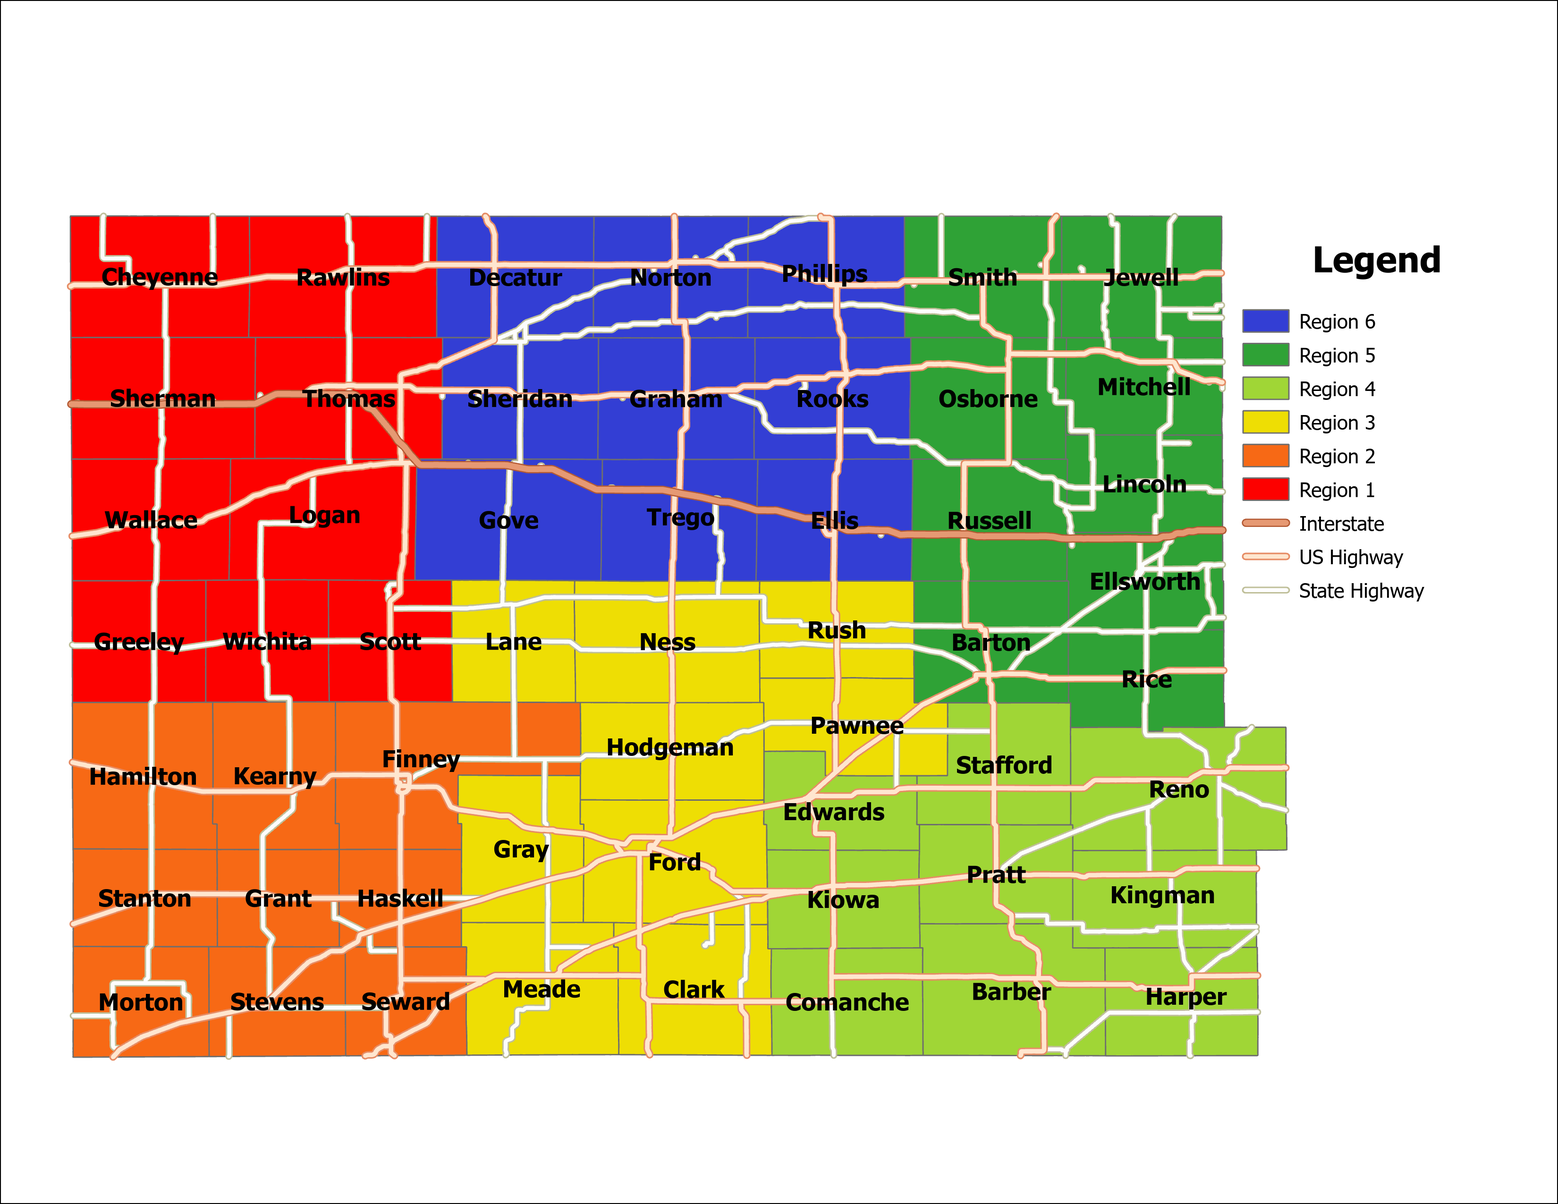
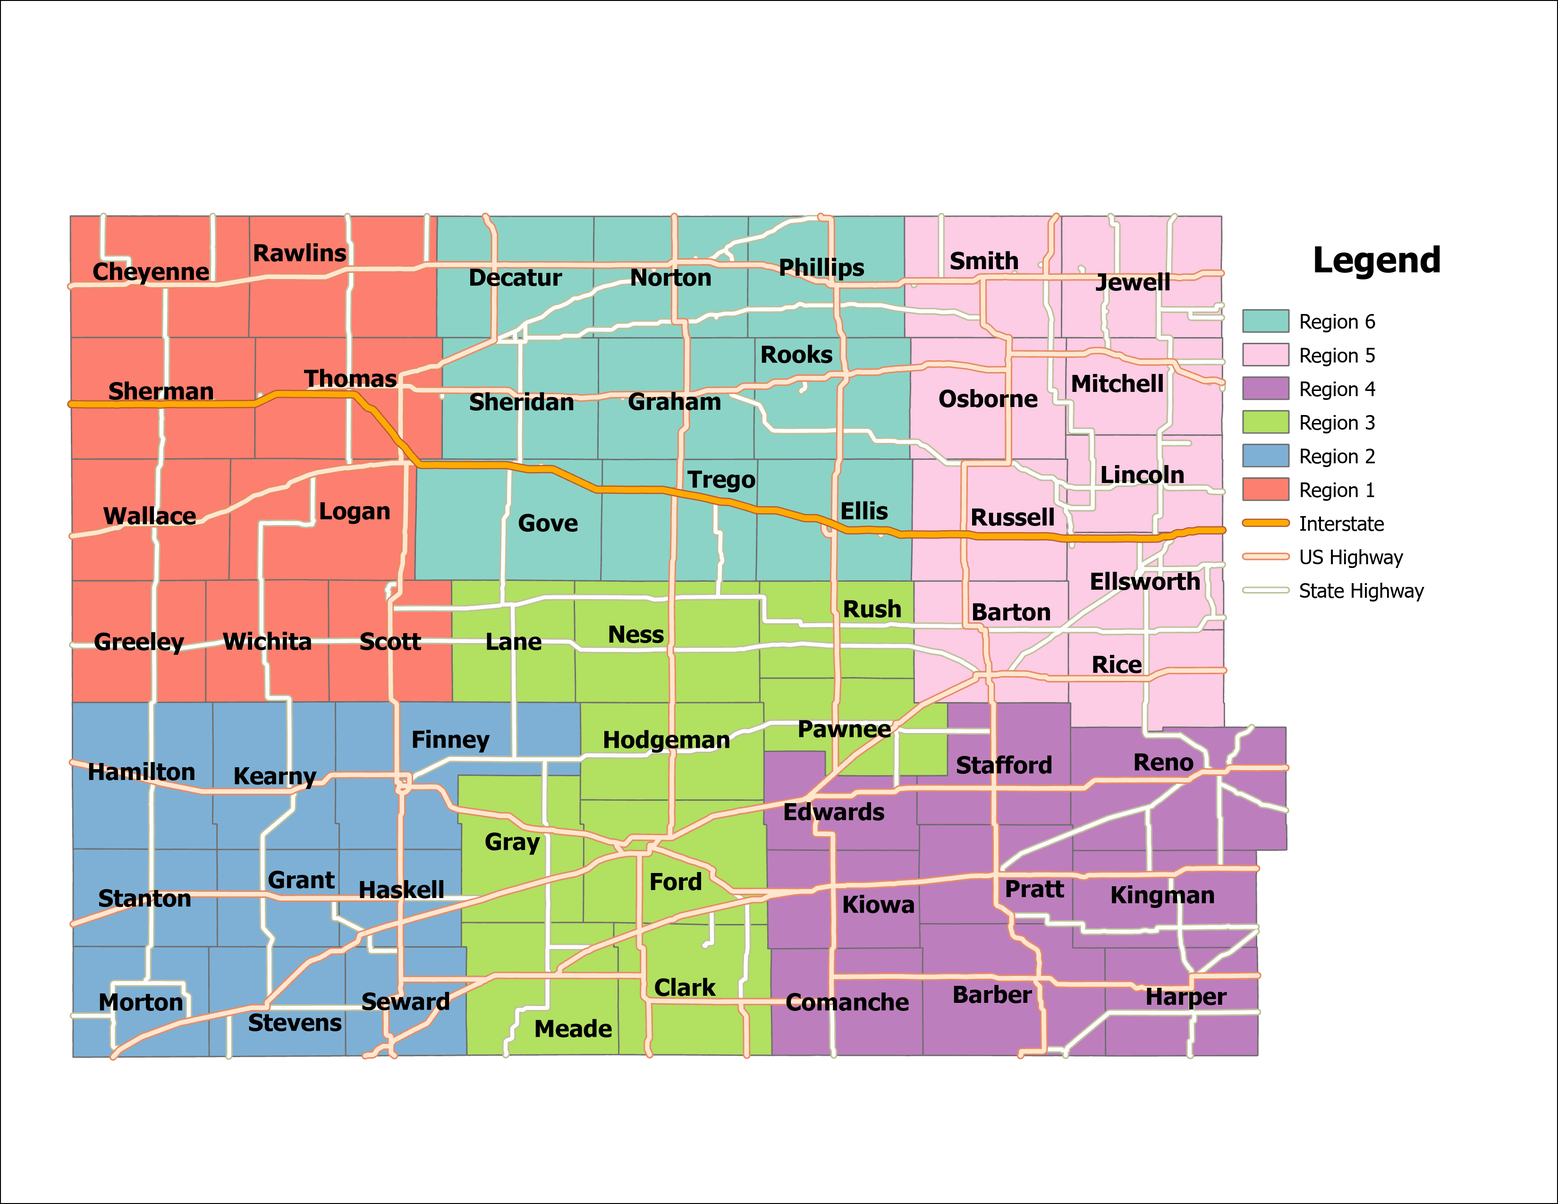
Add files via upload

diff --git a/ksdepopulation.html b/ksdepopulation.html
@@ -62,11 +62,23 @@
 	<h3 style="border-bottom:1px solid gray;">Region 6:</h3>
 	<center><a href="region6.png" target="_blank"><img src="region6.png" class="responsive"></a></center>
 	<h3 style="border-bottom:1px solid gray;">Analysis:</h3>
-	<p>&emsp;The data from this project reveals that there are three main inflection points of population in the 20th century. The first was in 1930, which coincides with the Dust Bowl, a disaster that still scars Kansas to this day. Hundreds of people fled Kansas for greener pastures out further west, as people were convinced the state was going to become an uninhabitable wasteland, and that its resources had all been used up. Many counties had a drop in population from 1930 to 1940, especially the ones further west. Multiple counties in Regions 1, 3, and 6 experienced a consistent decline in population following the 1930 Census. This is most visible in Cheyenne and Rawlins, but is also visible in Ness, Hodgeman, Rush, Decatur, Graham, and Phillips Counties. The second major inflection point is 1950, coinciding with the Baby Boom. Advances in technology following World War II allowed for even more efficient and mechanized farming. Some farms hit it big, and became even stronger and richer than ever. But these were mostly factory farms. Ordinary family farms that gave life and jobs to numerous communities in the study region failed, dealing a devastating economic blow to these areas. If you go out to western Kansas, you'll find lots of abandoned farm houses that were sold in the 1950s, and nobody ever bought them, because they would have to be used for farming, and the local farms couldn't compete with the prices of the factory farms and big farms. Cheyenne and Rawlins Counties began declining following the Dust Bowl, and family farms getting put out of business only hastened their decline. Pawnee, Russell, and Trego Counties weathered the Dust Bowl, but began their long decline in population following the mechanization of farming after World War II. The third inflection point is 1970 with the completion of Interstate 70. Out of the 54 counties studied in this project, I-70 only passes through eight of them. After the Dust Bowl and family farms getting put out of business, communities had the chance to rebrand themselves as tourist destinations. But when I-70 was completed, people would often drive right past these towns at 70 to 80 mph, and never even notice they were there. In fact, I-70 completely bypasses Regions 2, 3, and 4 in this study. Many counties in Regions 5 and 6 are also completely bypassed. Rooks County is one county that was bypassed by I-70, and has been consistently declining in population since 1970. The counties where I-70 does pass through have remained somewhat steady in population. Examples include Thomas and Sherman Counties, which contain important economic hubs like Colby, Oakley, and Goodland.</p>
-	<p>&emsp;Based on everything I've said so far, you'd think Region 2 would be becoming completely deserted. Well, this isn't quite the case. Since 1940, Haskell, Seward, Stevens, and Grant Counties have actually showed growth in population. Even though these counties were some of the hardest hit by the Dust Bowl, that has not deterred residents of this area from giving up hope, and attracts new residents as we speak. This is because southwest Kansas is home to oil and gas fields, which provide jobs and money for these areas. Communities like Hugoton, Garden City, and Liberal have benefitted from the petroleum industry. Another example of growth in this study is Reno County, which is home to Hutchinson. Hutchinson is the largest community in this study area, with a population of about 40,000, and serves as a satellite city of Wichita, the largest city in the entire state. Hutchinson also serves as a major manufacturing hub, railway hub, and agricultural hub for central Kansas. It is also home to salt mines, the Kansas State Fair, and the Cosmosphere, meaning that Hutchinson is brimming with economic opportunity and tourism compared to most communities studied here. Ford County also has demonstrated growth, even though it is nowhere near I-70. This is because of Dodge City, an important hub to southwestern Kansas, and a world-famous tourism destination, thanks to its history from the days of the Wild West. Ellis County has also demonstrated growth, thanks to Fort Hays State University being located in the city of Hays. This town serves as one of the most important cities in Western Kansas, and provides economic opportunity. College students also have to have somewhere to live, and bedroom communities of Hays like Russell and Ellis benefit from the demand of real estate. Even so, most communities in this half of the state have been in a constant state of decline for decades. Numerous ghost towns have propped up in this part of the country, and many more are expected to within 50 years. Without job opportunities due to the harsh climate and closing of family farms, the children who live in this part of the state move to more populated areas when they grow up, leaving their old towns with a graying population. Without children to enroll in school, the school closes, and families have no reason to live there anymore, as they might have to drive 30 miles just to get their children to school. Then the post office closes, which hampers people's ability to get mail and important products through the Postal Service. By this point, these communities have fallen into an inescapable death spiral, and are destined to become completely abandoned within 50 years.</p>
+	<p>&emsp;The data from these charts reveal that there are three main inflection points of population in the 20th century. The first was in 1930, which coincides with the Dust Bowl, a disaster that still scars Kansas to this day. Hundreds of people fled Kansas for greener pastures out further west, as people were convinced the state was going to become an uninhabitable wasteland, and that its resources had all been used up. Many counties had a drop in population from 1930 to 1940, especially the ones further west. Multiple counties in Regions 1, 3, and 6 experienced a consistent decline in population following the 1930 Census. This is most visible in Cheyenne and Rawlins, but is also visible in Ness, Hodgeman, Rush, Decatur, Graham, and Phillips Counties. The second major inflection point is 1950, coinciding with the Baby Boom. Advances in technology following World War II allowed for even more efficient and mechanized farming. Some farms hit it big, and became even stronger and richer than ever. But these were mostly factory farms. Ordinary family farms that gave life and jobs to numerous communities in the study region failed, dealing a devastating economic blow to these areas. If you go out to western Kansas, you'll find lots of abandoned farm houses that were sold in the 1950s, and nobody ever bought them, because they would have to be used for farming, and the local farms couldn't compete with the prices of the factory farms and big farms. Cheyenne and Rawlins Counties began declining following the Dust Bowl, and family farms getting put out of business only hastened their decline. Pawnee, Russell, and Trego Counties weathered the Dust Bowl, but began their long decline in population following the mechanization of farming after World War II. The third inflection point is 1970 with the completion of Interstate 70. Out of the 54 counties studied in this project, I-70 only passes through eight of them. After the Dust Bowl and family farms getting put out of business, communities had the chance to rebrand themselves as tourist destinations. But when I-70 was completed, people would often drive right past these towns at 70 to 80 mph, and never even notice they were there. In fact, I-70 completely bypasses Regions 2, 3, and 4 in this study. Many counties in Regions 5 and 6 are also completely bypassed. Rooks County is one county that was bypassed by I-70, and has been consistently declining in population since 1970. The counties where I-70 does pass through have remained somewhat steady in population. Examples include Thomas and Sherman Counties, which contain important economic hubs like Colby, Oakley, and Goodland. But these charts do not tell the complete story. I also created a choropleth of which census year had the highest population for each county in ArcGIS. Here it is below: </p>
+		<center><a href="yrmax.png" target="_blank"><img src="yrmax.png" class="responsive" id = "yrmax"></a></center>
+	<p>&emsp;Based on this choropleth, a fourth major inflection point is revealed: 1910. This coincides with Ford revolutionizing the automobile industry with the Model T, and making cars accessible to the masses. The Model T was first released in 1908, and was in production until 1927. Suddenly, the train was completely supplanted as the main method of transportation for people. Railroad traffic dropped considerably after this, as trains were reduced to their main purpose being freight only. At the same time, the construction of railroads was continuing well into the 1910s, but now they were for freight instead of people. Small towns and villages on the plains would see their death warrant signed in being bypassed by the railroad. There are many communities all over the study region that sprung up during the days of the Old West that went under following 1910. Not only were these communities bypassed by the railroads being constructed, their importance was diminished after traffic from the Santa Fe, Oregon, and California trails began to die down. Today, nature has completely reclaimed those areas, and nothing is left of those towns but some foundations and buried objects. It's also worth noting that based on this choropleth, Mitchell County has been in decline since the beginning of the timeframe we're studying. It's also worth noting that Ford, Seward, Stevens, and Finney Counties have overall grown from 1890 to 2010.</p>
+	<p>&emsp; You might be wondering, how is this possible? You'd think that because Interstate 70 goes nowhere near these counties and that these were the hardest hit parts of Kansas from the Dust Bowl that nobody would live here anymore. Well, this isn't quite the case. These factors have not deterred residents of this area from giving up hope, and attracts new residents as we speak. Almost all of the counties in Region 2 have seen a peak in population in either 2000 or 2010, and have overall grown in 100 years. This is because southwest Kansas is home to oil and gas fields, which provide jobs and money for these areas. Communities like Hugoton, Garden City, and Liberal have benefitted from the petroleum industry. Here are some choropleths I created in ArcGIS about the production of oil and gas: </p>
+	<center><a href="oilproduction.png" target="_blank"><img src="oilproduction.png" class="responsive"></a></center>
+	<center><a href="gasproduction.png" target="_blank"><img src="gasproduction.png" class="responsive"></a></center>
+	<p>&emsp;Based on these charts, Haskell and Finney Counties have been the most active overall in the production of fossil fuels. Region 2 of our study area leads the way in fossil fuel production, which results in jobs and reasons for people who live in these communities to stay, even though the factory farms have put the family farms out of business decades ago, and the Interstate goes nowhere near these counties. Mitchell, Smith, Lincoln, and Jewell Counties played an almost nonexistent contribution to this industry, which probably explains why their peak in population was 100+ years ago. But there's something else that is important to note. <a href="#yrmax">Look at the choropleth I made earlier about the year of maximum population.</a> Even though Ness, Rooks, and Russell Counties are leaders in the production of oil, they have been in decline for decades. This can be explained by another map I created in ArcGIS about railroads. <a href="https://hub.kansasgis.org/maps/KSDOT::railroads/about">Click here to download the shapefiles that I used to create this map.</a> As I mentioned before, when factory farms put family farms out of business, railroad depots all over Kansas closed in the 1950s and 1960s since railroad traffic became even more concentrated than it already was due to cars replacing trains for transportation of people. This resulted in entire railroad lines closing down, which severed numerous communities of an economic lifeline. If I-70 never passed through them, the economic fate of these communities were even further sealed. Here's the map of major railroads in Kansas that are either still active or abandoned: </p>
+	<center><a href="railroads.png" target="_blank"><img src="railroads.png" class="responsive"></a></center>
+	<p>&emsp;Based on this map, railroads are also the reason that Region 2 has seen overall stability and even growth in population. Communities like Garden City serve as important railroad hubs in this part of Kansas to have petroleum, crops, and other goods transported through this area. Having railyards here creates jobs and gives people a reason to stay or even move to this part of the country. The Cimarron Valley Railroad runs through Region 2, headquartered in Satanta. Regions 4, 5, and 6 are not as fortunate with railroads, with many major lines in these counties being closed. No active major rail lines pass through Rooks, Graham, or Comanche Counties, and for many counties, only one major rail line passes through them. That's not to say that no railroads pass through these counties, but they are likely to be smaller, more localized railroads with less traffic going through them. In some counties, only a small portion is covered with a major rail line, such as Clark and Hodgeman Counties. All in all, rail traffic has diminished greatly in Regions 4, 5, and 6, and the rail traffic that does pass through these areas have also become even more concentrated. This is the result of the factory farms putting the family farms out of business and numerous depots closing after World War 2. Even though some counties in Region 5 and 6 are active in the production of petroleum, there is either only one major railroad that provides transport for the product, or smaller, localized railroads for transportation, which negates any economic growth that could have occurred in these counties due to the consolidation of farms. 
+	<p>&emsp;Two counties, though, have the opposite kind of relationship between petroleum and railroads: Ford and Reno Counties. Neither counties are top producers of petroleum, but railroad traffic is much heavier in these two counties. How are these counties not been declining in population for decades? One answer is tourism. Ford County is home to Dodge City, a mecca for fans of the Wild West. Many legendary figures in the Wild West either spent time, lived in, or frequented Dodge City such as Wyatt Earp, Doc Holliday, and Bat Masterson. Gunsmoke, the long running and popular television series about the Wild West also took place in Dodge City, a demonstration of the era's enduring history in the town. Anybody who is an avid fan of the Wild West views Dodge City as a holy city, which creates a thriving tourism industry in this city. People will come here to visit, even though the Interstate goes nowhere near it. Reno County is another example of a county in our study region that has seen overall growth since 1890, even though it has been tapering off since 1980. Its county seat and largest city is Hutchinson, which has a tourism industry of its own, though it has a bit more variety than what Dodge City has to offer. Hutchinson is also the largest city in this study region with a population of close to 40,000 as of 2020. Hutchinson is home to the Cosmosphere, a museum dedicated to the Space Race, and features the largest collection of Soviet-era spaceflight artifacts outside of Russia. The town is also home to one of the largest deposits of salt in the world, and therefore, a vast salt mine. The mines are not only used to mine salt for agricultural and business purposes, but also to preserve artifacts in the low moisture environment. Props, posters, costumes, and film negatives from movies dating back to the 1930s are stored here. The original film negatives of Gone With the Wind, Star Wars, and Ben Hur are stored here. The artifacts are in a museum that's open to the public and movie buffs alike. Hutchinson is also home to the Kansas State Fair, and the National Junior College Athletic Association (NJCAA) basketball tournament, providing even more tourism revenue to the city. The town is also an important rail hub thanks to the salt mines, one of the largest grain elevators in the world being here (clocking in at nearly half a mile long!), and even a strong manufacturing industry. Hutchinson is home to the headquarters of Collins Industries, a company that manufactures school buses, as well as manufacturing plants for StraightLine HDD, Kuhn-Krause, Siemens, and the Eaton Corporation. The town is also home to Dillon's, one of the leading grocery store chains in all of Kansas. The city being along the Arkansas River doesn't hurt either, providing a source of water for the community. In short, Hutchinson is home to all the factors you need for a successful community. It also helps that the town is a satellite community of Wichita, the largest city in Kansas. </p>
 	<h3 style="border-bottom:1px solid gray;">Conclusions:</h3>
-	<p>&emsp;Based on the analysis, I believe that Regions 1, 5, and 6 have declined the most in population. This is mostly because of the decline in the communities north of I-70. Without oil and gas fields to provide jobs like in Region 2, and many communities and counties being bypassed by the interstate, and the comparatively little tourist appeal that towns in other regions have, these communities have seen the largest overall decline in population. And it shows: many small hamlets in these counties are riddled with abandoned farmhouses and ramshackle buildings that used to serve as businesses, exposed to the elements and crumbling. Even though regions 2, 3, and 4 are completely bypassed by I-70, these areas have oil and gas wells, rail hubs, and tourist appeal to provide economic opportunity to convince people to stay. Many counties north of I-70 can't say the same. On an individual county basis, I believe that Cheyenne, Rawlins, Graham, Norton, and Decatur Counties have seen the largest overall decline in population. All five counties are completely bypassed by I-70, suffered from the Dust Bowl, and suffered greatly from the closure of family farms. These counties have not been able to generate the kind of tourist appeal other counties have, thanks to the fact that drivers will simply whiz right by them while driving down I-70. All five counties had a population of 8,000 to 10,000 in the 1920s, and have shrunken down to 2,000 to 4,000 residents, and are still shrinking to this day.</p>
-	<p>&emsp;Personally, I think it's very sad to see these communities shrivel up and die. There was once a time where the little towns here were bustling with opportunity, and quickly growing. But the Dust Bowl quickly put an end to all that, and many of these communities have never recovered. Factory farms and I-70 only hastened the process. Just knowing that these towns were once on the rise and families lived and made memories there is very sad to think about. If you are driving around in this part of the state, take some time out of your day to stop by these communities and check them out. It's only a matter of time before they're gone.</p>
+	<p>&emsp;Based on the analysis, I believe that areas north of I-70 have seen the largest decline in population overall. Without oil and gas fields to provide jobs like in Region 2, and many communities and counties being bypassed by the interstate, and the comparatively little tourist appeal that towns in other regions have, these communities have seen the largest overall decline in population. Numerous ghost towns have propped up in this part of the country, and many more are probably will within 50 years. With little opportunity, the children who live in here move to more populated areas when they grow up, leaving their old towns with a graying population. Without children to enroll in school, the school closes, and families have no reason to live there anymore, as they might have to drive 30 miles just to get their children to school. Then the post office closes, which hampers people's ability to get mail and important products through the Postal Service. By this point, these communities have fallen into an inescapable death spiral, and are destined to become completely abandoned within 50 years. And it shows: many small hamlets in these counties are riddled with abandoned farmhouses and ramshackle buildings that used to serve as businesses, exposed to the elements and crumbling. Here's a chart that visualizes the decline in population from their peak:</p>
+	<center><a href="pctdecline.png" target="_blank"><img src="pctdecline.png" class="responsive"></a></center>
+	<p>&emsp;On an individual county basis, Mitchell, Smith, Graham, and Osborne Counties have seen the largest overall decline in population. These counties are completely bypassed by I-70, suffered from the Dust Bowl, and suffered even more from the closure of family farms. These counties have not been able to generate the kind of tourist revenue other counties have, thanks to the fact that drivers will simply whiz right by them while driving down I-70. Two of these counties are nonfactors in petroleum production, and major railroads have closed here, which has sent them into an economic death spiral. There are many ghost towns in these counties, and many more counties that will become ghost towns. Other counties that have seen significant decline in population are Cheyenne, Rawlins, Decatur, Phillips, Rooks, Stafford, Ness, Rush, and Comanche Counties. It's very sad to see these communities shrivel up and die. There was once a time where the little towns here were bustling with opportunity, and quickly growing. But the railroads consolidating and the Dust Bowl put an end to all that, and many of these communities have never recovered. Factory farms and I-70 only hastened the process. Just knowing that these towns were once on the rise and families lived and made memories there is very sad to think about. If you are driving around in this part of the state, take some time out of your day to stop by these communities and check them out. It's only a matter of time before they're gone.</p>
+</div>
+<div id="footer" align="center">
+	<script src="datemodified.js"></script>
 </div>
 </body>
 </html>
